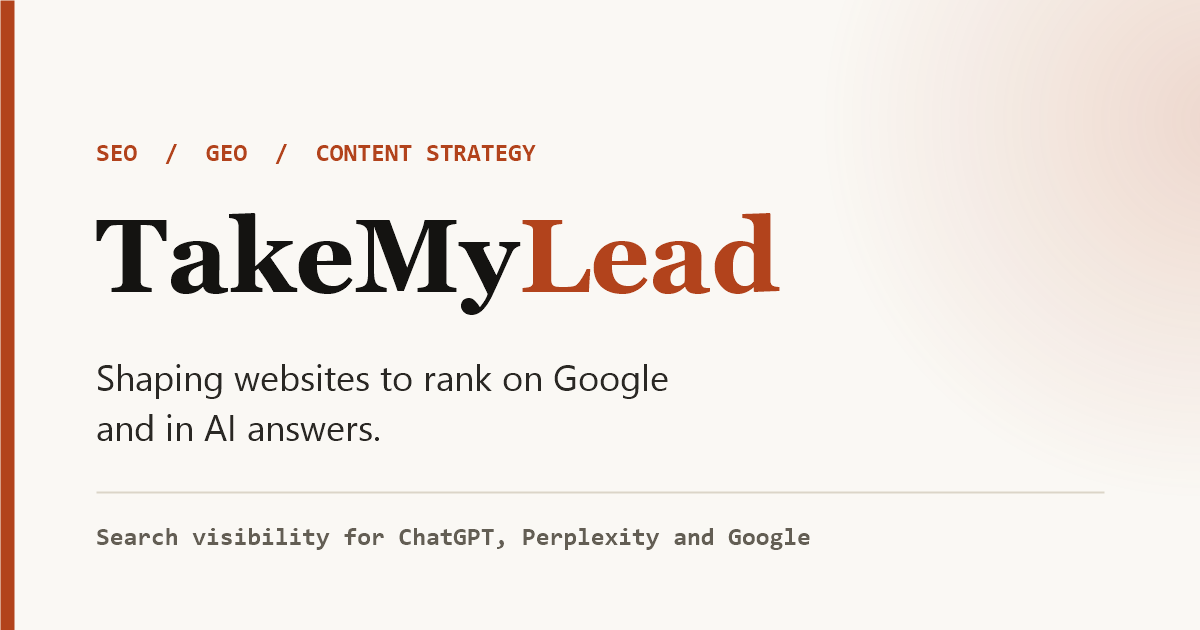
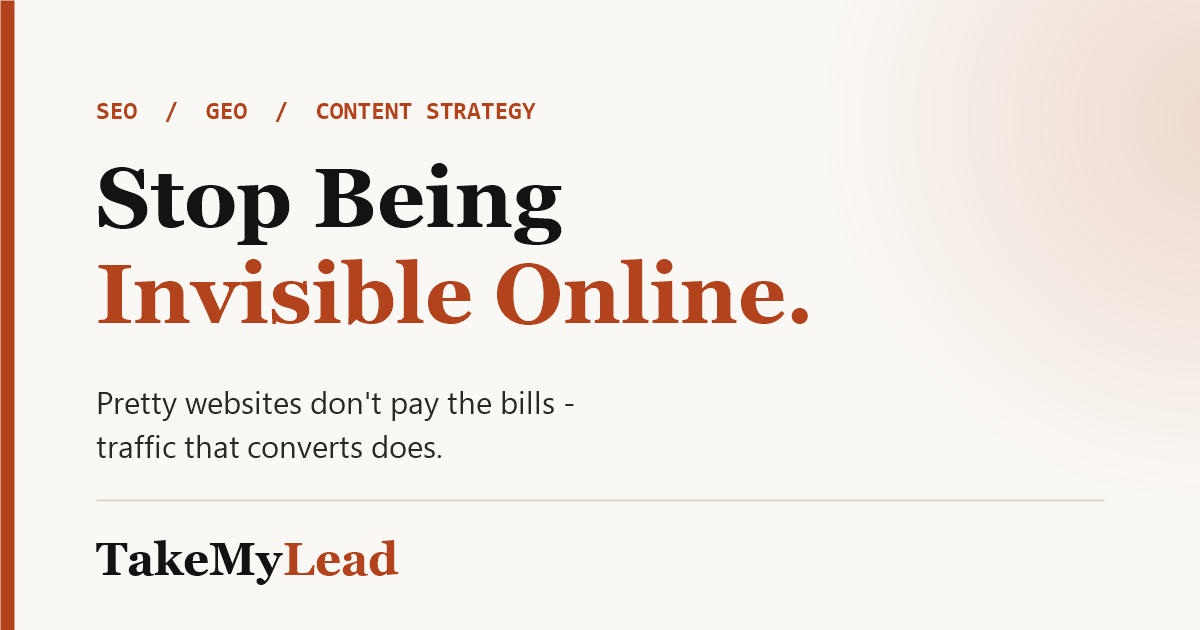
New title and description, hyphens instead of em dashes
Title is now "Stop Being Invisible Online | TakeMyLead" and the description
leads with the value, not the discipline. og:title/og:description,
twitter:title/twitter:description and the JSON-LD description all carry the
same wording, and both image alt texts were updated to match.

Every em dash on the page is a hyphen now, entity form included, in the
byline, the headline, the hero copy, the GEO definition and the footer.
The headline keeps a non-breaking space before its dash so a narrow screen
cannot start a line with it.

The share image was redrawn around the new headline, same palette and
layout, with the wordmark moved under the rule.

Changed region(s): [[0.0617, 0.1508, 0.6783, 0.5127], [0.0617, 0.573, 0.555, 0.7238], [0.0617, 0.8444, 0.6783, 0.9349]]

diff --git a/index.html b/index.html
@@ -3,10 +3,10 @@
 <head>
     <meta charset="UTF-8">
     <meta name="viewport" content="width=device-width, initial-scale=1.0">
-    <title>Search Visibility &amp; AI Answer Optimization — TakeMyLead</title>
+    <title>Stop Being Invisible Online | TakeMyLead</title>
 
     <!-- Primary SEO Meta Tags -->
-    <meta name="description" content="SEO and content strategy that ranks your site on Google and gets it cited by ChatGPT and Perplexity, turning search traffic into high-intent leads.">
+    <meta name="description" content="Pretty websites don't pay the bills - traffic that converts does. I optimize your site to answer questions, outrank competitors, and turn clicks into sales.">
     <meta name="keywords" content="SEO consultant, GEO, generative engine optimization, AI search optimization, on-page SEO, off-page SEO, backlink strategy, search visibility, content strategy">
     <meta name="robots" content="index, follow">
     <meta name="theme-color" content="#FAF8F4">
@@ -21,20 +21,20 @@
     <meta property="og:site_name" content="TakeMyLead">
     <meta property="og:locale" content="en_US">
     <meta property="og:url" content="https://www.takemylead.de/">                             <!-- HOST -->
-    <meta property="og:title" content="Search Visibility &amp; AI Answer Optimization — TakeMyLead">
-    <meta property="og:description" content="SEO and content strategy that ranks your site on Google and gets it cited by ChatGPT and Perplexity, turning search traffic into high-intent leads.">
+    <meta property="og:title" content="Stop Being Invisible Online | TakeMyLead">
+    <meta property="og:description" content="Pretty websites don't pay the bills - traffic that converts does. I optimize your site to answer questions, outrank competitors, and turn clicks into sales.">
     <meta property="og:image" content="https://www.takemylead.de/og-image.png">              <!-- HOST -->
     <meta property="og:image:type" content="image/png">
     <meta property="og:image:width" content="1200">
     <meta property="og:image:height" content="630">
-    <meta property="og:image:alt" content="TakeMyLead — shaping websites to rank on Google and in AI answers.">
+    <meta property="og:image:alt" content="TakeMyLead - stop being invisible online.">
 
     <!-- Twitter / X -->
     <meta name="twitter:card" content="summary_large_image">
-    <meta name="twitter:title" content="Search Visibility &amp; AI Answer Optimization — TakeMyLead">
-    <meta name="twitter:description" content="SEO and content strategy that ranks your site on Google and gets it cited by ChatGPT and Perplexity, turning search traffic into high-intent leads.">
+    <meta name="twitter:title" content="Stop Being Invisible Online | TakeMyLead">
+    <meta name="twitter:description" content="Pretty websites don't pay the bills - traffic that converts does. I optimize your site to answer questions, outrank competitors, and turn clicks into sales.">
     <meta name="twitter:image" content="https://www.takemylead.de/og-image.png">             <!-- HOST -->
-    <meta name="twitter:image:alt" content="TakeMyLead — shaping websites to rank on Google and in AI answers.">
+    <meta name="twitter:image:alt" content="TakeMyLead - stop being invisible online.">
 
     <!-- Structured data -->
     <script type="application/ld+json">
@@ -47,7 +47,7 @@
       "image": "https://www.takemylead.de/og-image.png",
       "logo": "https://www.takemylead.de/apple-touch-icon.png",
       "email": "takemylead.de@gmail.com",
-      "description": "SEO and content strategy that ranks your site on Google and gets it cited by ChatGPT and Perplexity, turning search traffic into high-intent leads.",
+      "description": "Pretty websites don't pay the bills - traffic that converts does. I optimize your site to answer questions, outrank competitors, and turn clicks into sales.",
       "areaServed": "Worldwide",
       "availableLanguage": ["en", "de"],
       "knowsAbout": [
@@ -492,7 +492,7 @@
                             <span class="w-1.5 h-1.5 sm:w-2 sm:h-2 rounded-full bg-brand-accent animate-ping"></span>
                             Taking on new projects
                         </div>
-                        <p class="text-[11px] sm:text-xs text-brand-muted font-mono font-semibold">Matthias Schulte — Digital Content Strategist</p>
+                        <p class="text-[11px] sm:text-xs text-brand-muted font-mono font-semibold">Matthias Schulte - Digital Content Strategist</p>
                     </div>
                 </div>
 
@@ -500,11 +500,11 @@
                 <div class="space-y-5 sm:space-y-6">
                   <div class="sda-exit space-y-5 sm:space-y-6">
                     <h1 class="reveal-on-scroll delay-1 font-serif text-3xl sm:text-5xl md:text-6xl font-normal leading-[1.15] sm:leading-[1.12] tracking-tight text-brand-heading max-w-4xl">
-                        Shaping your <span class="italic text-brand-accent font-medium">website to rank</span> — not just sit there looking pretty.
+                        Shaping your <span class="italic text-brand-accent font-medium">website to rank</span>&nbsp;- not just sit there looking pretty.
                     </h1>
 
                     <p class="reveal-on-scroll delay-2 text-sm sm:text-lg text-brand-body max-w-2xl font-normal leading-relaxed">
-                        I position your brand to be found on <strong class="font-bold text-brand-heading">Google</strong> and recommended by <strong class="font-bold text-brand-heading">modern AI search engines</strong> like ChatGPT and Perplexity — so the people already searching for what you do end up on your site.
+                        I position your brand to be found on <strong class="font-bold text-brand-heading">Google</strong> and recommended by <strong class="font-bold text-brand-heading">modern AI search engines</strong> like ChatGPT and Perplexity - so the people already searching for what you do end up on your site.
                     </p>
 
                     <!-- 2. The plain-language version of the offer, before any jargon. -->
@@ -785,7 +785,7 @@
                     </p>
                     <p class="text-sm sm:text-base text-white/60 font-normal leading-relaxed">
                         <strong class="font-bold text-[#E8834F]">SEO</strong> is getting found on Google.
-                        <strong class="font-bold text-[#E8834F]">GEO</strong> &mdash; generative engine optimization &mdash; is getting discovered inside AI-generated answers.
+                        <strong class="font-bold text-[#E8834F]">GEO</strong> - generative engine optimization - is getting discovered inside AI-generated answers.
                     </p>
                 </div>
 
@@ -1064,7 +1064,7 @@
             </div>
         </div>
         <div class="max-w-5xl mx-auto px-4 sm:px-6 mt-8 text-center md:text-left text-[11px] font-mono text-brand-muted flex flex-col sm:flex-row items-center justify-between gap-2 border-t border-brand-border/40 pt-6">
-            <p>&copy; <span id="footer-year">2026</span> Matthias Schulte — TakeMyLead. All rights reserved.</p>
+            <p>&copy; <span id="footer-year">2026</span> Matthias Schulte - TakeMyLead. All rights reserved.</p>
             <p>Specialized in Search Visibility & Generative Engine Optimization.</p>
         </div>
     </footer>
